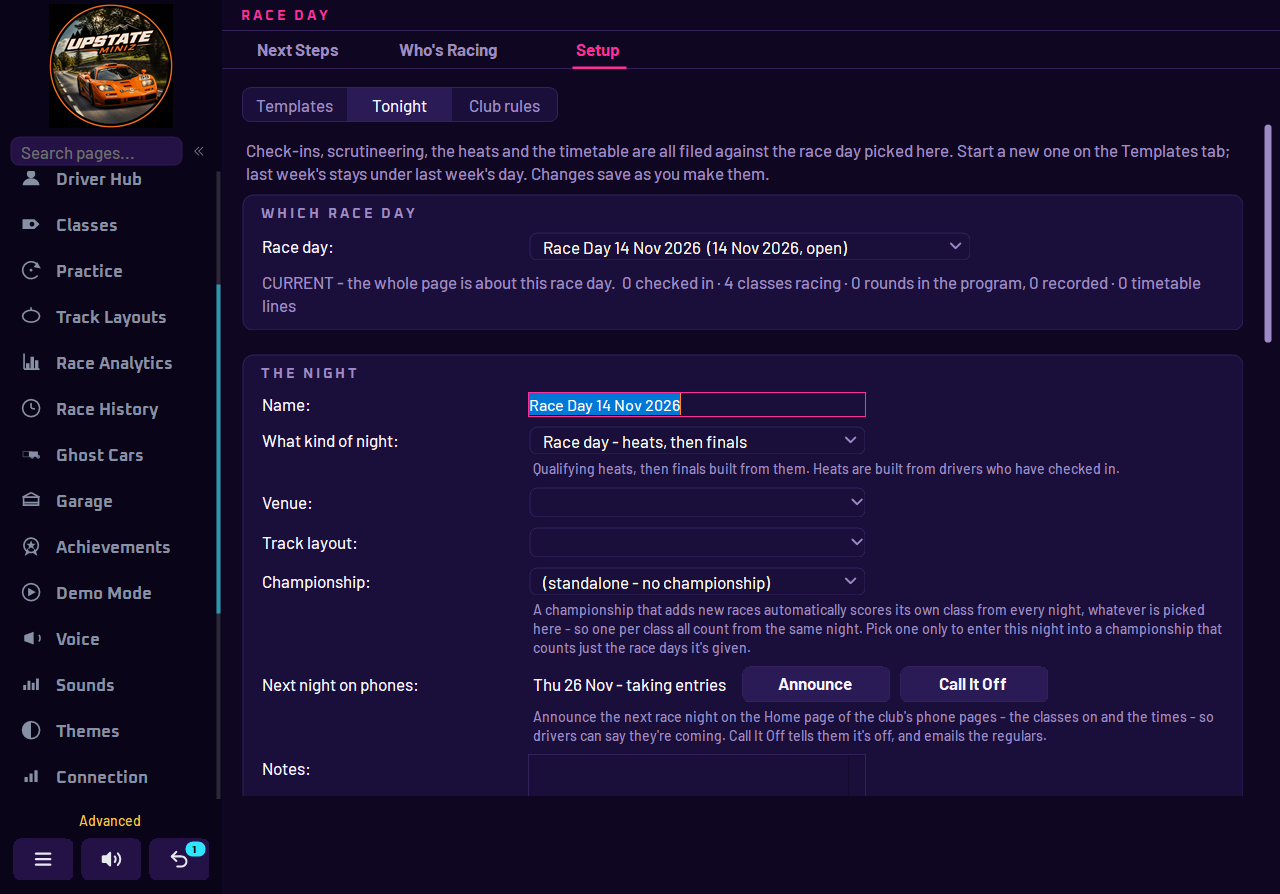
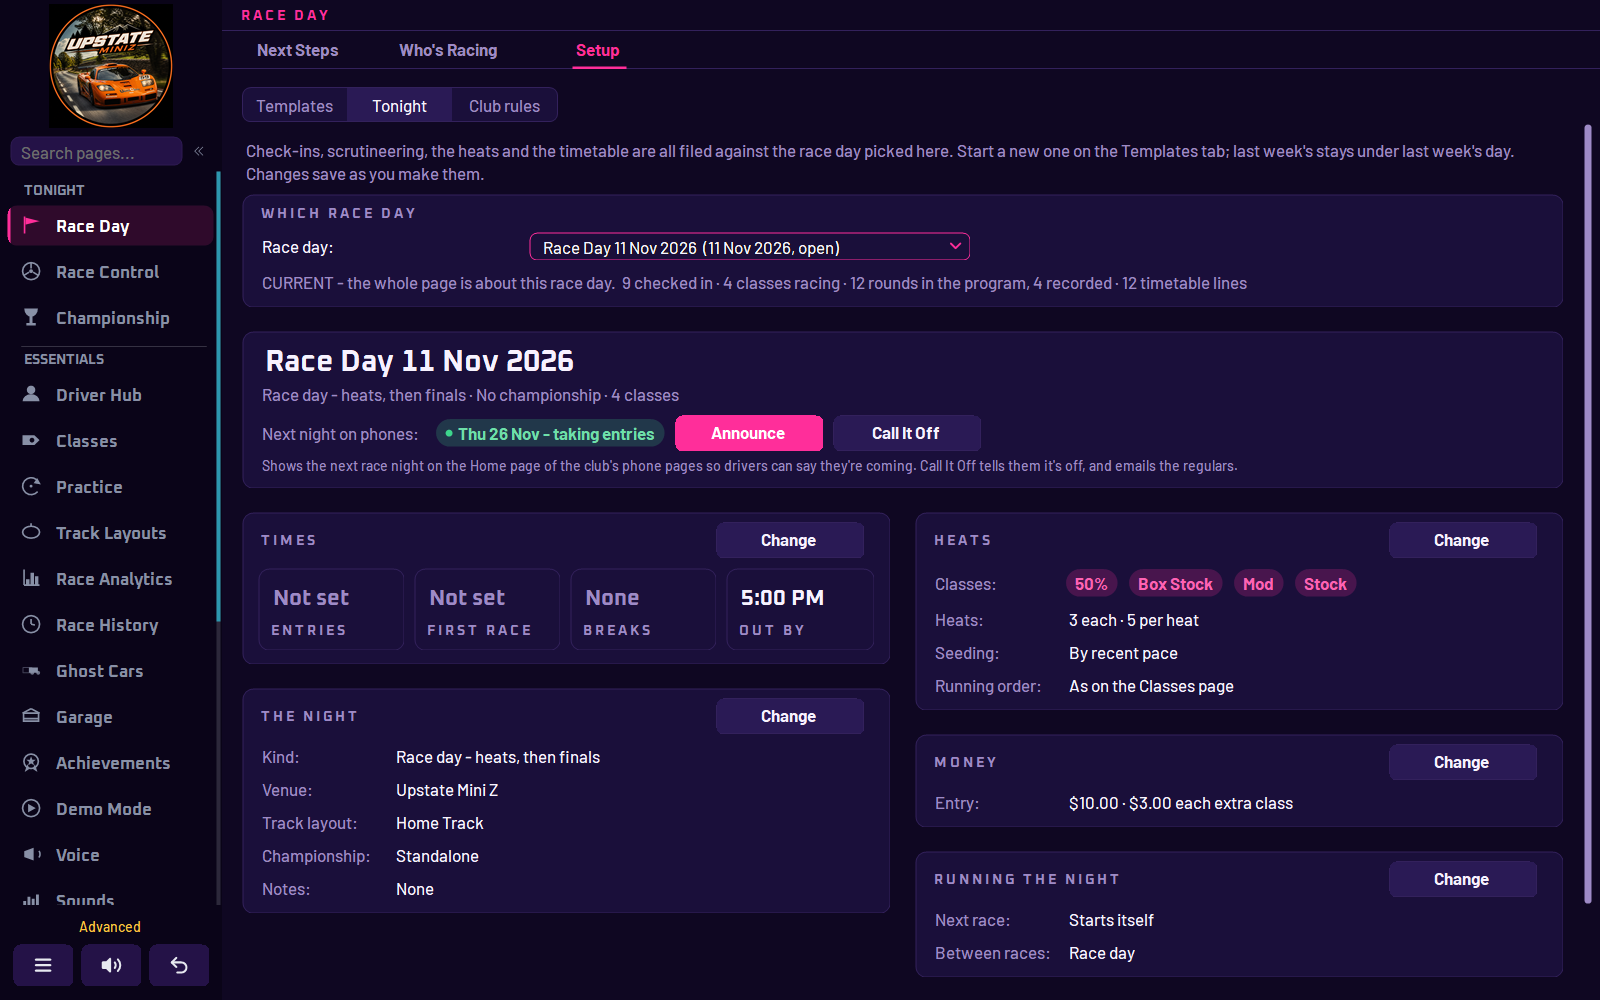
Tonight: new Setup screenshot, time tiles fit, Simple mode test finds the cards
- The user guide's race-day-setup.png reshot on the new Tonight tab
  (1600 wide, so it shows the two columns), alt text to match.
- Times tiles use the heading face: in half a 1600px window "5:00 PM"
  lost its "PM" to the ellipsis in the title face.
- SimpleModeTests found card captions only in new Section("...");
  Tonight's cards are built with Fold("..."), so the full suite said
  The night, Times, Heats, Money and Running the night had gone.

diff --git a/HeatCaller/HeatCaller.Tests/SimpleModeTests.cs b/HeatCaller/HeatCaller.Tests/SimpleModeTests.cs
@@ -528,10 +528,14 @@ public sealed class SimpleModeTests : IDisposable
         Assert.Empty(untagged);
     }
 
-    /// <summary>Every literal card and tab caption in the app, as "File|Caption".</summary>
+    /// <summary>
+    /// Every literal card and tab caption in the app, as "File|Caption" -
+    /// a Section or TabPage, or one of Tonight's folding cards (Fold, 17 Nov
+    /// 2026), which is a Section whose caption sits in its header.
+    /// </summary>
     private static IEnumerable<string> Captions()
     {
-        var pattern = new Regex("new (?:Section|TabPage)\\(\"([^\"]+)\"");
+        var pattern = new Regex("(?:new (?:Section|TabPage)|\\bFold)\\(\"([^\"]+)\"");
 
         foreach (var file in Directory.GetFiles(SourceFolder(), "*.cs"))
         {

diff --git a/HeatCaller/HeatCaller/RaceDayEventControl.Cards.cs b/HeatCaller/HeatCaller/RaceDayEventControl.Cards.cs
@@ -113,7 +113,11 @@ public sealed partial class RaceDayEventControl
 
         foreach (var tile in tiles)
         {
-            _textSize.Wear(tile.Value, () => AppTheme.TitleFont);
+            // The heading face, not the title one: in half a page a tile is
+            // about 150px, and "5:00 PM" in the title face lost its "PM" to
+            // the ellipsis. Centred in the room the strip keeps for a value.
+            tile.Value.TextAlign = ContentAlignment.MiddleLeft;
+            _textSize.Wear(tile.Value, () => AppTheme.HeadingFont);
             _textSize.Wear(tile.Caption, () => AppTheme.MicroFont);
         }
 

diff --git a/website/docs/race-day/events-and-entries.md b/website/docs/race-day/events-and-entries.md
@@ -93,7 +93,7 @@ Every step can be skipped, and **Skip setup** leaves the wizard at any point. A 
 
 Setup opens on **Templates** while no race day is open, and on **Tonight** once one is. A tab you pick yourself stays picked until a night is started or closed.
 
-![Race Day, Setup, Tonight tab: Race Day 14 Nov 2026 picked under Which race day, and The night card with the name, kind of night, venue, track layout, championship, Next night on phones and notes](../assets/images/race-day-setup.png)
+![Race Day, Setup, Tonight tab: Race Day 11 Nov 2026 picked under Which race day, a banner with the night's name, kind and Next night on phones, then the Times and The night cards on the left and Heats, Money and Running the night on the right, each with a Change button](../assets/images/race-day-setup.png)
 
 There's no Save button. Every change saves itself as you make it, and a **Saved** note appears for a moment after the **Close Day**, **Delete Day** and **Save as Template...** buttons. Typing in a box is saved when you pause or move to another field, and a run of typing is one step for **Undo**.
 
